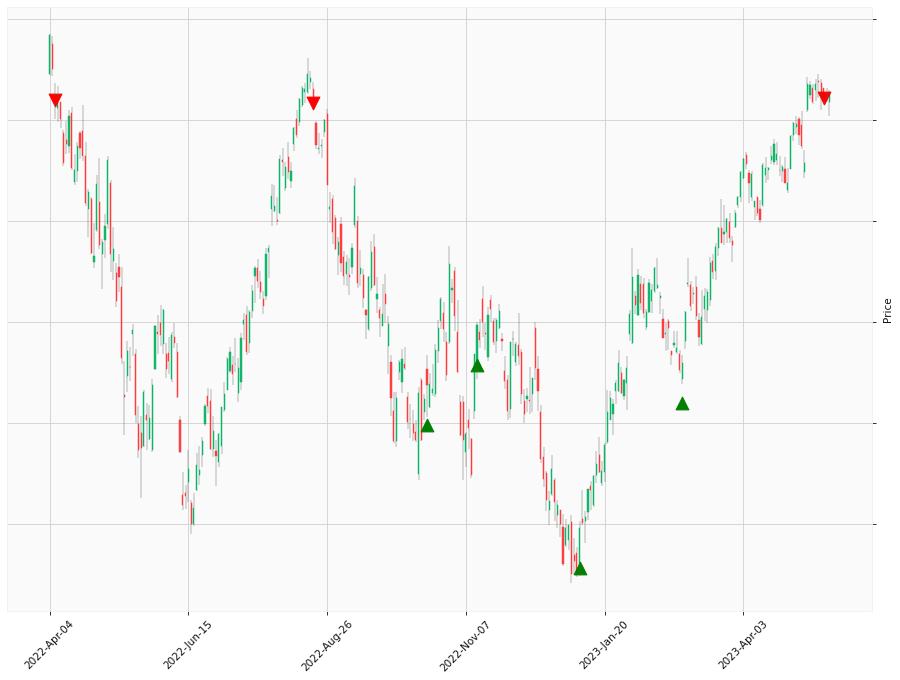
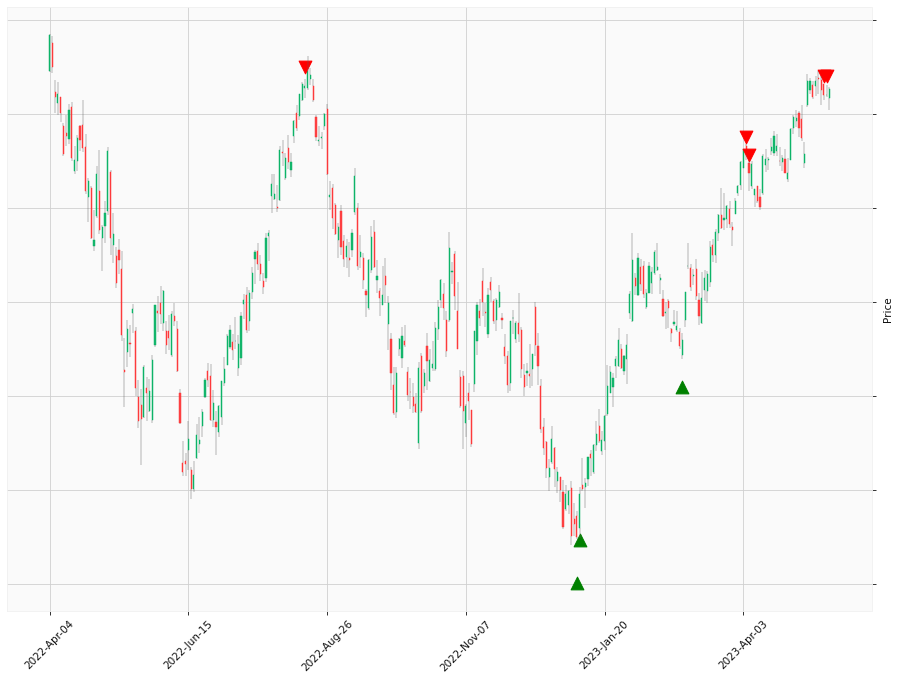
See https://github.com/HappyLabz/HappyLabz_v1/commit/476b4c9e2e68d6ef91a7a8ea1f815550f90a376c from refs/heads/main

Changed region(s): [[0.0311, 0.0926, 0.9333, 0.8647]]

diff --git a/AAPL.md b/AAPL.md
@@ -39,58 +39,66 @@
     <tr>
         <td>1</td>
         <td>Short</td>
-        <td>Apr 06 2022 Close</td>
-        <td>-0.18 %</td>
-        <td>0.18 %</td>
-        <td>0.18 %</td>
+        <td>Aug 16 2022 Close</td>
+        <td>-27.75 %</td>
+        <td>27.75 %</td>
+        <td>27.75 %</td>
     </tr>
     <tr>
         <td>2</td>
-        <td>Short</td>
-        <td>Aug 19 2022 Close</td>
-        <td>-16.19 %</td>
-        <td>16.37 %</td>
-        <td>16.40 %</td>
+        <td>Long</td>
+        <td>Jan 05 2023 Close</td>
+        <td>3.68 %</td>
+        <td>31.43 %</td>
+        <td>32.45 %</td>
     </tr>
     <tr>
         <td>3</td>
         <td>Long</td>
-        <td>Oct 18 2022 Close</td>
-        <td>4.14 %</td>
-        <td>20.51 %</td>
-        <td>21.22 %</td>
+        <td>Jan 06 2023 Close</td>
+        <td>12.57 %</td>
+        <td>43.99 %</td>
+        <td>49.09 %</td>
     </tr>
     <tr>
         <td>4</td>
         <td>Long</td>
-        <td>Nov 11 2022 Close</td>
-        <td>-13.41 %</td>
-        <td>7.10 %</td>
-        <td>4.96 %</td>
+        <td>Mar 02 2023 Close</td>
+        <td>13.52 %</td>
+        <td>57.51 %</td>
+        <td>69.24 %</td>
     </tr>
     <tr>
         <td>5</td>
-        <td>Long</td>
-        <td>Jan 06 2023 Close</td>
-        <td>12.57 %</td>
-        <td>19.66 %</td>
-        <td>18.15 %</td>
+        <td>Short</td>
+        <td>Apr 04 2023 Close</td>
+        <td>-1.13 %</td>
+        <td>58.64 %</td>
+        <td>71.15 %</td>
     </tr>
     <tr>
         <td>6</td>
-        <td>Long</td>
-        <td>Mar 02 2023 Close</td>
-        <td>17.93 %</td>
-        <td>37.59 %</td>
-        <td>39.33 %</td>
+        <td>Short</td>
+        <td>Apr 05 2023 Close</td>
+        <td>5.07 %</td>
+        <td>53.56 %</td>
+        <td>62.47 %</td>
     </tr>
     <tr>
         <td>7</td>
         <td>Short</td>
         <td>May 15 2023 Close</td>
+        <td>0.00 %</td>
+        <td>53.56 %</td>
+        <td>62.47 %</td>
+    </tr>
+    <tr>
+        <td>8</td>
+        <td>Short</td>
+        <td>May 16 2023 Close</td>
         <td>0.36 %</td>
-        <td>37.23 %</td>
-        <td>38.83 %</td>
+        <td>53.20 %</td>
+        <td>61.88 %</td>
     </tr>
     
 </table>
@@ -106,23 +114,23 @@
     <tbody>
         <tr>
             <td>AAPL (Buy and Hold)</td>
-            <td>2022-04-06 Close <b>-</b> 2023-05-15 Close</td>
-            <td>0.14 %</td>
+            <td>2022-08-16 Close <b>-</b> 2023-05-17 Close</td>
+            <td>-0.20 %</td>
         </tr>
         <tr>
             <td>AAPL (HLT Cumulative % Gain)</td>
-            <td>2022-04-06 Close <b>-</b> 2023-05-15 Close</td>
-            <td>37.23 %</td>
+            <td>2022-08-16 Close <b>-</b> 2023-05-17 Close</td>
+            <td>53.20 %</td>
         </tr>
         <tr>
             <td>AAPL (HLT Reinvested % Gain)</td>
-            <td>2022-04-06 Close <b>-</b> 2023-05-15 Close</td>
-            <td>38.83 %</td>
+            <td>2022-08-16 Close <b>-</b> 2023-05-17 Close</td>
+            <td>61.88 %</td>
         </tr>
         <tr>
             <td>S&P 500 (Buy and Hold)</td>
-            <td>2022-04-06 Close <b>-</b> 2023-05-15 Close</td>
-            <td>-7.50 %</td>
+            <td>2022-08-16 Close <b>-</b> 2023-05-17 Close</td>
+            <td>-3.37 %</td>
         </tr>
     </tbody>
 </table>

diff --git a/index.md b/index.md
@@ -81,36 +81,36 @@
     <div class="box gray" onclick="location.href='{% link navigation/blocked.md %}';">
         <h2 id="aapl"><a href="{% link navigation/blocked.md %}">AAPL</a></h2>
         <ul>
-            <li>LAST: <b><span style="color: #b91c1c;">Short</span></b> May 15 2023 15:00 PST</li>
-            <li>DELTA: <b><span style="color: #167816;">0.62 (0.36%)</span></b> as of close<br>May 17 2023</li>
+            <li>LAST: <b><span style="color: #b91c1c;">Short</span></b> May 16 2023 15:00 PST</li>
+            <li>DELTA: <b><span style="color: #167816;">0.62 (0.36%)</span></b> as of close<br>May 18 2023</li>
         </ul>
     </div>
     <div class="box gray" onclick="location.href='{% link navigation/blocked.md %}';">
         <h2 id="amzn"><a href="{% link navigation/blocked.md %}">AMZN</a></h2>
         <ul>
             <li>LAST: <b><span style="color: #167816;">Long</span></b> Mar 14 2023 15:00 PST</li>
-            <li>DELTA: <b><span style="color: #167816;">20.62 (21.73%)</span></b> as of close<br>May 17 2023</li>
+            <li>DELTA: <b><span style="color: #167816;">20.62 (21.73%)</span></b> as of close<br>May 18 2023</li>
         </ul>
     </div>
     <div class="box gray" onclick="location.href='{% link navigation/blocked.md %}';">
         <h2 id="msft"><a href="{% link navigation/blocked.md %}">MSFT</a></h2>
         <ul>
             <li>LAST: <b><span style="color: #167816;">Long</span></b> Mar 03 2023 15:00 PST</li>
-            <li>DELTA: <b><span style="color: #167816;">58.71 (23.00%)</span></b> as of close<br>May 17 2023</li>
+            <li>DELTA: <b><span style="color: #167816;">58.71 (23.00%)</span></b> as of close<br>May 18 2023</li>
         </ul>
     </div>
     <div class="box gray" onclick="location.href='{% link TSLA.md %}';">
         <h2 id="tsla"><a href="{% link TSLA.md %}">TSLA <span style="color:#0369a1;">&bigstar;</span></a></h2>
         <ul>
             <li>LAST: <b><span style="color: #b91c1c;">Short</span></b> Feb 16 2023 15:00 PST</li>
-            <li>DELTA: <b><span style="color: #b91c1c;">-28.18 (-13.95%)</span></b> as of close<br>May 17 2023</li>
+            <li>DELTA: <b><span style="color: #b91c1c;">-28.18 (-13.95%)</span></b> as of close<br>May 18 2023</li>
         </ul>
     </div>
     <div class="box gray" onclick="location.href='{% link navigation/blocked.md %}';">
         <h2 id="spy"><a href="{% link navigation/blocked.md %}">SPY</a></h2>
         <ul>
             <li>LAST: <b><span style="color: #167816;">Long</span></b> Mar 14 2023 15:00 PST</li>
-            <li>DELTA: <b><span style="color: #167816;">23.50 (6.00%)</span></b> as of close<br>May 17 2023</li>
+            <li>DELTA: <b><span style="color: #167816;">23.50 (6.00%)</span></b> as of close<br>May 18 2023</li>
         </ul>
     </div>
     <div class="box gray" onclick="location.href='{% link NEXT.md %}';">

diff --git a/TSLA.md b/TSLA.md
@@ -122,23 +122,23 @@
     <tbody>
         <tr>
             <td>TSLA (Buy and Hold)</td>
-            <td>2022-04-05 Close <b>-</b> 2023-02-16 Close</td>
-            <td>-44.46 %</td>
+            <td>2022-04-05 Close <b>-</b> 2023-05-17 Close</td>
+            <td>-52.20 %</td>
         </tr>
         <tr>
             <td>TSLA (HLT Cumulative % Gain)</td>
-            <td>2022-04-05 Close <b>-</b> 2023-02-16 Close</td>
+            <td>2022-04-05 Close <b>-</b> 2023-05-17 Close</td>
             <td>193.76 %</td>
         </tr>
         <tr>
             <td>TSLA (HLT Reinvested % Gain)</td>
-            <td>2022-04-05 Close <b>-</b> 2023-02-16 Close</td>
+            <td>2022-04-05 Close <b>-</b> 2023-05-17 Close</td>
             <td>394.29 %</td>
         </tr>
         <tr>
             <td>S&P 500 (Buy and Hold)</td>
-            <td>2022-04-05 Close <b>-</b> 2023-02-16 Close</td>
-            <td>-9.48 %</td>
+            <td>2022-04-05 Close <b>-</b> 2023-05-17 Close</td>
+            <td>-7.94 %</td>
         </tr>
     </tbody>
 </table>

diff --git a/MSFT.md b/MSFT.md
@@ -74,23 +74,23 @@
     <tbody>
         <tr>
             <td>MSFT (Buy and Hold)</td>
-            <td>2022-09-07 Close <b>-</b> 2023-03-03 Close</td>
-            <td>-1.08 %</td>
+            <td>2022-09-07 Close <b>-</b> 2023-05-17 Close</td>
+            <td>21.66 %</td>
         </tr>
         <tr>
             <td>MSFT (HLT Cumulative % Gain)</td>
-            <td>2022-09-07 Close <b>-</b> 2023-03-03 Close</td>
+            <td>2022-09-07 Close <b>-</b> 2023-05-17 Close</td>
             <td>21.91 %</td>
         </tr>
         <tr>
             <td>MSFT (HLT Reinvested % Gain)</td>
-            <td>2022-09-07 Close <b>-</b> 2023-03-03 Close</td>
+            <td>2022-09-07 Close <b>-</b> 2023-05-17 Close</td>
             <td>21.66 %</td>
         </tr>
         <tr>
             <td>S&P 500 (Buy and Hold)</td>
-            <td>2022-09-07 Close <b>-</b> 2023-03-03 Close</td>
-            <td>1.61 %</td>
+            <td>2022-09-07 Close <b>-</b> 2023-05-17 Close</td>
+            <td>4.39 %</td>
         </tr>
     </tbody>
 </table>

diff --git a/AMZN.md b/AMZN.md
@@ -74,23 +74,23 @@
     <tbody>
         <tr>
             <td>AMZN (Buy and Hold)</td>
-            <td>2022-05-13 Close <b>-</b> 2023-03-14 Close</td>
-            <td>-16.08 %</td>
+            <td>2022-05-13 Close <b>-</b> 2023-05-17 Close</td>
+            <td>2.16 %</td>
         </tr>
         <tr>
             <td>AMZN (HLT Cumulative % Gain)</td>
-            <td>2022-05-13 Close <b>-</b> 2023-03-14 Close</td>
+            <td>2022-05-13 Close <b>-</b> 2023-05-17 Close</td>
             <td>5.02 %</td>
         </tr>
         <tr>
             <td>AMZN (HLT Reinvested % Gain)</td>
-            <td>2022-05-13 Close <b>-</b> 2023-03-14 Close</td>
+            <td>2022-05-13 Close <b>-</b> 2023-05-17 Close</td>
             <td>2.16 %</td>
         </tr>
         <tr>
             <td>S&P 500 (Buy and Hold)</td>
-            <td>2022-05-13 Close <b>-</b> 2023-03-14 Close</td>
-            <td>-2.49 %</td>
+            <td>2022-05-13 Close <b>-</b> 2023-05-17 Close</td>
+            <td>3.36 %</td>
         </tr>
     </tbody>
 </table>

diff --git a/SPY.md b/SPY.md
@@ -122,23 +122,23 @@
     <tbody>
         <tr>
             <td>SPY (Buy and Hold)</td>
-            <td>2022-09-08 Close <b>-</b> 2023-03-14 Close</td>
-            <td>-2.16 %</td>
+            <td>2022-09-08 Close <b>-</b> 2023-05-17 Close</td>
+            <td>3.71 %</td>
         </tr>
         <tr>
             <td>SPY (HLT Cumulative % Gain)</td>
-            <td>2022-09-08 Close <b>-</b> 2023-03-14 Close</td>
+            <td>2022-09-08 Close <b>-</b> 2023-05-17 Close</td>
             <td>12.08 %</td>
         </tr>
         <tr>
             <td>SPY (HLT Reinvested % Gain)</td>
-            <td>2022-09-08 Close <b>-</b> 2023-03-14 Close</td>
+            <td>2022-09-08 Close <b>-</b> 2023-05-17 Close</td>
             <td>11.84 %</td>
         </tr>
         <tr>
             <td>S&P 500 (Buy and Hold)</td>
-            <td>2022-09-08 Close <b>-</b> 2023-03-14 Close</td>
-            <td>-2.16 %</td>
+            <td>2022-09-08 Close <b>-</b> 2023-05-17 Close</td>
+            <td>3.71 %</td>
         </tr>
     </tbody>
 </table>
